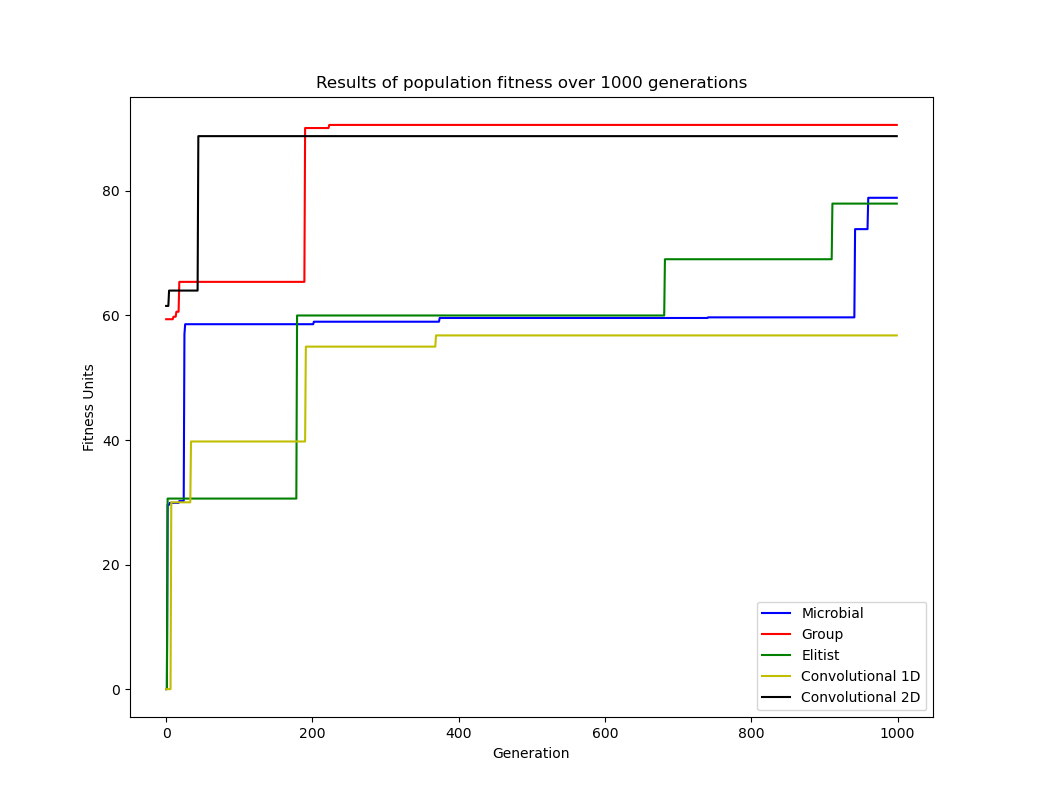
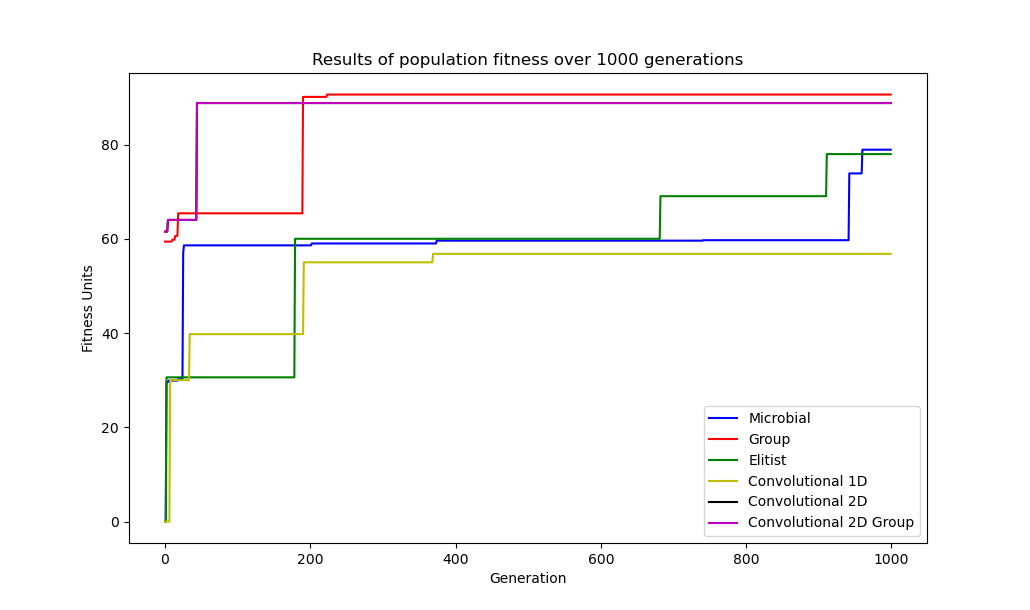
updated images

diff --git a/Simulation/GroupConv2D.py b/Simulation/GroupConv2D.py
@@ -1,0 +1,338 @@
+#noise generator for simulation plot
+import noise
+import numpy as np
+import matplotlib.pyplot as plt
+from mpl_toolkits.mplot3d import axes3d
+import random as rnd
+import copy
+from agent import *
+import math as maths
+
+SIZE=50
+def generateWorld():
+    shape = (SIZE,SIZE)
+    scale = 100.0
+    octaves = 10 #rnd.randint(2,20)
+    persistence = 0.7
+    lacunarity = 2
+
+    world = np.zeros(shape)
+    for i in range(shape[0]):
+        for j in range(shape[1]):
+            world[i][j] = noise.pnoise2(i/scale, 
+                                        j/scale, 
+                                        octaves=octaves, 
+                                        persistence=persistence, 
+                                        lacunarity=lacunarity, 
+                                        repeatx=1024, 
+                                        repeaty=1024, 
+                                        base=42)
+    world=world*100 #normalize numbers
+    world=world.astype(int)
+    #print("Octaves:",octaves)
+    return world,shape
+
+def mutationNew(gene, mean=0, std=0.5,size=100):
+    assert size<len(gene)
+    n=random.randint(0,len(gene)-size-1)
+    array=np.random.normal(mean,std,size=size)
+    gene = gene[n:n+size] + array #mutate the gene via normal 
+    # constraint
+    gene[gene >4] = 4
+    gene[gene < -4] = -4
+    return gene
+
+def mutation(gene, mean=0, std=0.5):
+    gene = gene + np.random.normal(mean, std, size=gene.shape) #mutate the gene via normal 
+    # constraint
+    gene[gene >4] = 4
+    gene[gene < -4] = -4
+    return gene
+
+def crossover(winning, losing, p_crossover=0.5): #provide a crossover function
+    for g in range(len(winning)):
+        winner=winning[g]
+        loser=losing[g]
+        for i,gene in enumerate(winner):
+            if rnd.random() <= p_crossover:
+                loser[i] = winner[i]
+        losing[g]=loser
+    return losing
+
+def pickPosition(terrain,value,deny=[],LBounds=8,UBounds=4):
+    current=-100
+    cords=[0,0]
+    deny.append(cords)
+    while cords in deny:
+        while current<value-LBounds or current>value+UBounds:
+            cords=[rnd.randint(0,SIZE-1),rnd.randint(0,SIZE-1)]
+            current=terrain[cords[0],cords[1]]
+    return cords
+
+def fitness(broke,energy,endDist):
+    if broke or endDist>10:
+        return 0
+    #print(sum(route),mx)
+    #return 1-(max(0,energy)/(mx+sum(route)))
+    return (((100-energy)/100)*0.3 + ((10-endDist)/10)*0.7)*100
+
+#canReach will make sure the problem is solvable
+def canReach(terrain,start,goal,endmarked=[[False for i in range(SIZE)] for j in range(SIZE)]):
+    #check whether the bot can reach the other
+    #expand out from end and make paths
+    y,x=start[0],start[1]
+    val=False
+    if terrain[x][y]!=-1 and not endmarked[x][y]:
+        endmarked[x][y]=True
+        if x-1>=0:
+            val=canReach(terrain,[x-1,y],goal,endmarked=endmarked)
+        if x+1<SIZE:
+            val=canReach(terrain,[x+1,y],goal,endmarked=endmarked)
+        if y-1>0:
+            val=canReach(terrain,[x,y-1],goal,endmarked=endmarked)
+        if y+1<SIZE:
+            val=canReach(terrain,[x,y+1],goal,endmarked=endmarked)
+    if x==goal[1] and y==goal[0]:
+        val=True
+    return val
+    
+    
+
+#getBestRoute will be used to measure how fit an evolved route is
+def getBestRoute(terrain,start,end):
+    #find the least cost route from A to B
+    #return metrics
+    
+    return []
+def expand(terrain,Map,start):
+    for i in range(len(terrain)):
+        for j in range(len(terrain[i])):
+            if terrain[i][j]<-5:
+                Map[i][j]=-1
+            elif [j,i]==start:
+                Map[i][j]=0
+            else:
+                Map[i][j]=terrain[i][j]+getDist([j,i],start)
+    return Map
+
+def getDist(start,end):
+    d1=((start[0]-end[0])**2 + (start[1]-end[1])**2)**0.5
+    return int(d1)
+
+def getSlice(map,line,position,imH=5):
+    #move up a height
+    height=map[position[0]][position[1]]
+    #max(0,height-map[coord[0]][coord[1]])
+    column=[]
+    past=0
+    c=[]
+    passes=0 #allow building
+    
+    for coord in line[::-1]:
+        column.append(map[coord[0]][coord[1]]-height+50)
+
+    return column
+def readIm(map,position,direction,imSize=(5,5),d=5):
+    #read the ground around the agent at a radius of i
+    assert (imSize[1]*20<360) #if the image size requires larger than panoramic this will be stupid
+    r=maths.radians(direction)
+    vector=(int(d*maths.cos(r)),int(d*maths.sin(r)))
+    x,y=position
+    lines=[]
+    ANG=0
+    for pixX in range(imSize[1]):
+        lines.append(
+            np.array([[x+round(abs(d-i)*maths.cos(r+maths.radians(ANG))),y+round(abs(d-i)*maths.sin(r+maths.radians(ANG)))] for i in range(imSize[0])])
+        )
+        ANG+=20 #increase angle each time
+    ##check through each line
+    #place pixel in the height relevant based on terrain height
+    A=[]
+    for lin in lines:
+        A.append(getSlice(map,lin,position,imH=imSize[0]))
+
+    A=np.array(A)/50
+    return A
+
+def getCircleCoord(centre,radius):
+    #(x-centre[0])^2 + (y-centre[1])^2 = radius^2
+    coords=[]
+    bx=-2*(centre[0])
+    cx=centre[0]**2
+    by=-2*(centre[1])
+    cy=centre[1]**2
+    for y in range(centre[1]-radius,centre[1]+radius,1):
+        c=(y**2) + by*(y) + cy #get y filled in
+        c=cx+c-(radius**2) #normalize for x quadratic
+        #apply quadratic form
+        x1=((-1*bx)+maths.sqrt((bx**2)-(4*c)))/(2)
+        x2=((-1*bx)-maths.sqrt((bx**2)-(4*1*c)))/(2)
+        coords.append([x1,y])
+        coords.append([x2,y])
+    return coords
+def run_trial(gene,runs=30):
+    pathx=[]
+    pathy=[]
+    current=startPos.copy()
+    energy=0
+    last=startPos.copy()
+    broke=False
+    routeValues=[]
+    v=rnd.choice(vectors)
+    whegBot.set_genes(gene) #set the genes of the agent
+    radius=10
+    valid=False
+    cords=[]
+    coords=getCircleCoord(startPos,radius)
+    while not valid: #validate random destination
+        cords=rnd.choice(coords)
+        tmp=cords
+        cords=[int(cords[0]),int(cords[1])]
+        if world[cords[1]][cords[0]]>-6:
+            valid=True
+        else:
+            coords.remove(tmp) #prevent from picking
+    cords=np.array(cords)
+    i=0
+    while i<runs and not broke and getDist(current,cords)>1: #loop through and generate path
+        dir=maths.cos(v[1]) #get angle from y-axis
+        im=readIm(world,current,dir) #read the image that the agent sees
+        assert len(im)==5, "Panoramic Camera failed"+str(len(im)) #assert length correct
+        VectorBetween=[cords[0]-current[0],cords[1]-current[1]]
+        v=whegBot.get_action(im,VectorBetween) #get action from the agent
+        last=current.copy()
+        pathx.append(current[0]+v[0])
+        pathy.append(current[1]+v[1])
+        current[0]+=v[0]
+        current[1]+=v[1]
+        if current[0]>=0 and current[0]<len(world)-1 and current[1]>=0 and current[1]<len(world[0])-1:
+            if world[current[0]][current[1]]<=-6: #do not allow the rover to enter water
+                #print("water")
+                broke=True
+            else: #calculate energy usage
+                climb=max(-1,world[current[0]][current[1]]-world[last[0]][last[1]]) #non 0 value of total climb
+                routeValues.append(abs(climb))
+                energy+=1+climb
+        i+=1
+    endDist=getDist(current,cords)
+    #print("total energy consumed",energy,"fitness",fitness(broke,energy,endDist),"endDist:",endDist)
+    return pathy,pathx,fitness(broke,energy,endDist),cords
+
+def group(genes,world,position):
+    global BESTFIT
+    global BEST
+    #microbial algorithm trial
+    ind_1 = rnd.randint(0,len(genes)-1)
+    ind_2=0
+    if ind_1>0: ind_2 = ind_1-1
+    else: ind_2= ind_1+1
+    #get two random positions
+    fitness1=0
+    fitness2=0
+    genes1=[]
+    genes2=[]
+    maxFitness=0
+    for i in range(len(genes[ind_1])):
+        gene1=(genes[ind_1][i])
+        gene2=(genes[ind_2][i])
+        genes1.append(gene1)
+        genes2.append(gene2)
+        #run trial for each
+        p1x,p1y,fitnessa,endCord1=run_trial(gene1)
+        p2x,p2y,fitnessb,endCord2=run_trial(gene2)
+        
+        #run same trial again to generate different coord
+        a,b,fitnessa1,c=run_trial(gene1)
+        a,b,fitnessa2,c=run_trial(gene2)
+        a,b,fitnessb1,c=run_trial(gene1)
+        a,b,fitnessb2,c=run_trial(gene2)
+        
+        #generate average fitness
+        fitness1+=(fitnessa+fitnessa1+fitnessb1)/3
+        fitness2+=(fitnessb+fitnessa2+fitnessb2)/3
+        temp=max([(fitnessa+fitnessa1+fitnessb1)/3,(fitnessb+fitnessa2+fitnessb2)/3])
+        if temp>maxFitness:maxFitness=temp
+    #get group fitness
+    fitness1=fitness1/len(genes[ind_1])
+    fitness2=fitness2/len(genes[ind_1])
+
+    #print(max(fitness1,fitness2),"% over 3 trials")
+    #show results
+     
+    #microbial selection
+    if fitness1>fitness2:
+        arr=[mutation(g) for g in genes1] #copy over mutated winners
+        gene2=copy.deepcopy(arr)
+    elif fitness2>fitness1:
+        arr=[mutation(g) for g in genes2]
+        gene1=copy.deepcopy(arr)
+    if max(fitness1,fitness2)>BESTFIT:
+        BESTFIT=max(fitness1,fitness2) #gather the maximum
+        if fitness1>fitness2: BEST=[copy.deepcopy(p1x),copy.deepcopy(p1y),copy.deepcopy(world),endCord1,ind_1]
+        else: BEST=[copy.deepcopy(p2x),copy.deepcopy(p2y),copy.deepcopy(world),endCord2,ind_2]
+    if BESTFIT==0: BEST=[copy.deepcopy(p2x),copy.deepcopy(p2y),copy.deepcopy(world),endCord2,ind_2] #default
+    genes[ind_1]=copy.deepcopy(genes1)
+    genes[ind_2]=copy.deepcopy(genes2)
+    return genes,max(fitness1,fitness2),maxFitness
+BEST=[]
+BESTFIT=0
+world,shape=generateWorld()
+startPos=[int(SIZE/2),int(SIZE/2)] #centre point
+
+
+testIm=readIm(world,[25,25],30) #read the image that the agent sees
+Generations=1000
+vectors=[(1,1),(1,0),(0,1),(-1,-1),(-1,0),(0,-1),(-1,1),(1,-1)] #possible moves
+#network input:
+#   image, x_dest, y_dest
+#layer 1
+#   10
+#layer 2
+#   10
+#output
+#   vectors possible (8)
+whegBot=Agent_Conv2D(testIm.shape[0]*testIm.shape[1]+2,[10,10],len(vectors)) #define the agent
+
+group_size=5
+pop_size=10
+gene_pop=[]
+for i in range(pop_size):
+    gene_group=[]
+    for i in range(group_size): #vary from 10 to 20 depending on purpose of robot
+        gene=np.random.normal(0, 0.8, (whegBot.num_genes))
+        gene_group.append(copy.deepcopy(gene))#create
+    gene_pop.append(copy.deepcopy(gene_group))
+
+fitnesses=[]
+for gen in range(Generations):
+    print("Gen",gen+1)
+    #generate the world terrain
+    world,shape=generateWorld()
+    world=np.pad(np.array(world), (2,2), 'constant',constant_values=(-6,-6))
+    world=np.pad(np.array(world), (3,3), 'constant',constant_values=(-7,-7))
+    world=np.pad(np.array(world), (1,1), 'constant',constant_values=(-8,-8))
+    #randomly pick a start position
+    startPos=pickPosition(world,4,LBounds=6)
+    #genes have been selected
+    gene_pop,fit,Max=group(gene_pop,world,startPos)
+    fitnesses.append(max([Max]+fitnesses)) #max([fit]+fitnesses)
+    print(max(fitnesses))
+genes=gene_pop[BEST[4]]
+"""
+for gene in genes:
+    p1x,p1y,fit,endCord1=run_trial(gene)
+    plt.plot(p1x,p1y) #show best path
+    plt.title("Results of best fitness at "+str(fit)+"% after generations")
+    plt.scatter(endCord1[0],endCord1[1])
+    #print(canReach(Rmap,startPos,endPos))
+    plt.imshow(BEST[2],cmap='terrain') #show best show
+    plt.show()
+"""
+np.save("group2D.npy", fitnesses)
+
+plt.cla()
+plt.plot([i for i in range(Generations)],fitnesses) #show fintesses over generations
+plt.title("Results of population fitness over "+str(Generations)+" generations")
+plt.ylabel("Fitness Units")
+plt.xlabel("Generation")
+plt.show()

diff --git a/Simulation/ResultsFile.py b/Simulation/ResultsFile.py
@@ -6,6 +6,7 @@ b=None
 c=None
 d=None
 e=None
+g=None
 path="D:/Documents/Computer Science/Year 3/Dissertation/"
 with open(path+'microbial.npy', 'rb') as f:
     a = np.load(f)
@@ -18,6 +19,8 @@ with open(path+'microbialConv.npy', 'rb') as f:
     d = np.load(f)
 with open(path+'microbialConv2D.npy', 'rb') as f:
     e = np.load(f)
+with open(path+'group2D.npy', 'rb') as f:
+    g = np.load(f)
 print(a.shape,b.shape,c.shape)
 
 plt.plot([i for i in range(len(a))],a,c="b",label="Microbial") #show fintesses over generations
@@ -25,6 +28,7 @@ plt.plot([i for i in range(len(b))],b,c="r",label="Group") #show fintesses over 
 plt.plot([i for i in range(len(c))],c,c="g",label="Elitist") #show fintesses over generations
 plt.plot([i for i in range(len(d))],d,c="y",label="Convolutional 1D") #show fintesses over generations
 plt.plot([i for i in range(len(e))],e,c="k",label="Convolutional 2D") #show fintesses over generations
+plt.plot([i for i in range(len(g))],e,c="m",label="Convolutional 2D Group") #show fintesses over generations
 
 plt.title("Results of population fitness over "+str(len(a))+" generations")
 plt.ylabel("Fitness Units")
